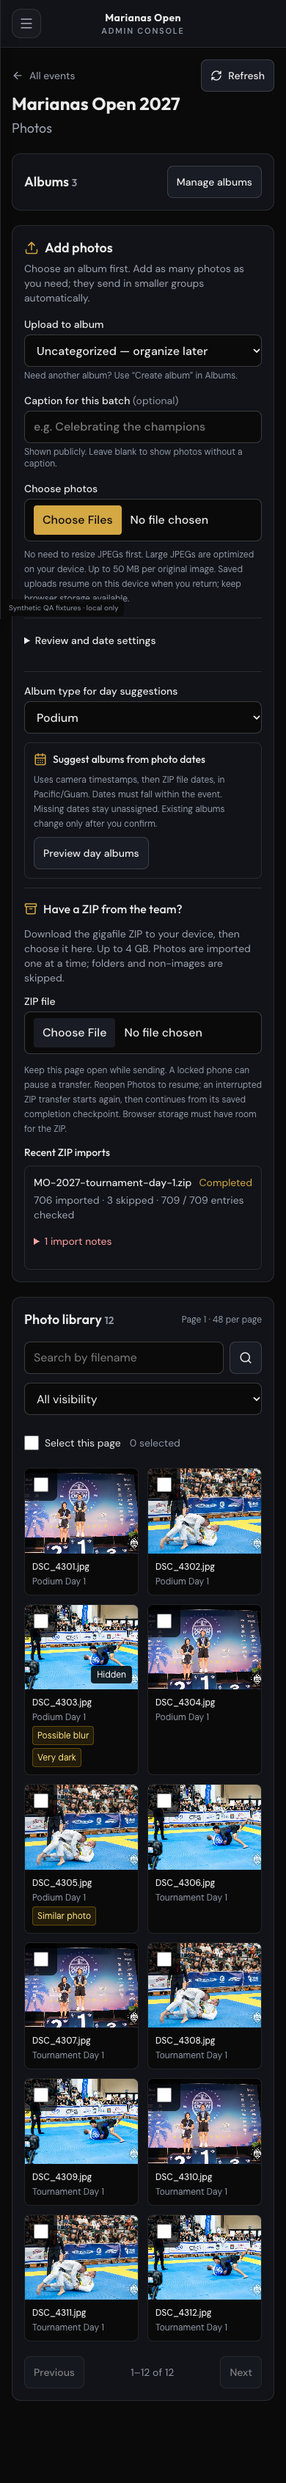
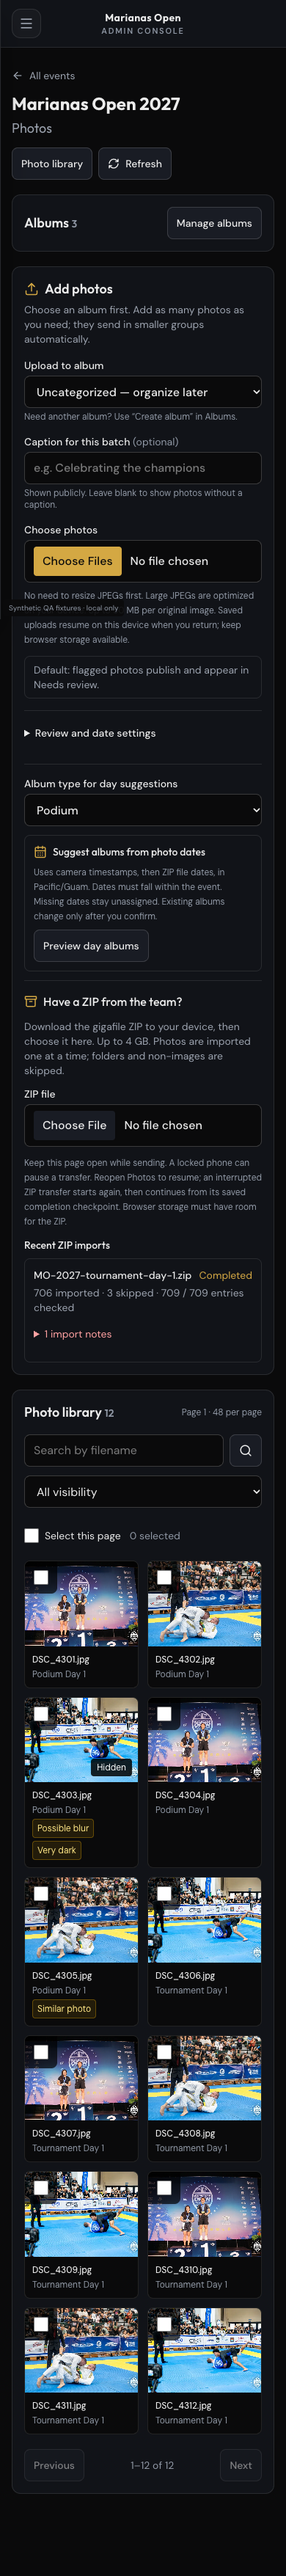
Keep upload recovery and album edits usable on phones
Allow upload details to minimize, preserve selected albums through renames, guard empty ZIP album types, and refresh responsive QA evidence.

Changed region(s): [[0.0308, 0.0, 0.9538, 0.9616], [0.6462, 0.5273, 0.7077, 0.5583], [0.8923, 0.1241, 0.9231, 0.1551]]

diff --git a/web/src/contexts/GalleryUploadContext.tsx b/web/src/contexts/GalleryUploadContext.tsx
@@ -514,6 +514,7 @@ function estimatedUploadSize(task: GalleryUploadTask, averageOptimizedRatio: num
 export function GalleryUploadStatusPanel() {
   const { tasks, activeCount, failedCount, completedCount, retryFailed, clearCompleted, concurrency, directStorageUnavailable, directStorageError, queueError } = useGalleryUploads();
   const [now, setNow] = useState(0);
+  const [minimized, setMinimized] = useState(false);
   const [fileFilter, setFileFilter] = useState<'all' | 'failed'>('all');
   const [filePage, setFilePage] = useState(0);
 
@@ -584,7 +585,7 @@ export function GalleryUploadStatusPanel() {
             {activeCount > 0 ? <Loader2 className="w-4 h-4 text-gold animate-spin" /> : <UploadCloud className="w-4 h-4 text-gold" />}
             Gallery uploads
           </div>
-          <div className="text-xs text-text-muted">{overall}%</div>
+          <div className="flex items-center gap-2 text-xs text-text-muted"><span>{overall}%</span><button type="button" aria-expanded={!minimized} aria-controls="gallery-upload-details" onClick={() => setMinimized(value => !value)} className="min-h-11 px-2 text-gold focus-visible:outline-2 focus-visible:outline-gold">{minimized ? 'Show details' : 'Minimize'}</button></div>
         </div>
         <div role="progressbar" aria-label="Overall upload progress" aria-valuemin={0} aria-valuemax={100} aria-valuenow={overall} className="mt-2 h-1.5 bg-white/5 overflow-hidden">
           <div className="h-full bg-gold transition-all" style={{ width: `${overall}%` }} />
@@ -596,7 +597,7 @@ export function GalleryUploadStatusPanel() {
           <span>{concurrency} at a time</span>
           {optimizedSavedBytes > 0 && <span>{formatBytes(optimizedSavedBytes)} saved</span>}
         </div>
-        <div className="mt-3 grid grid-cols-2 gap-2 text-[11px] text-text-muted sm:grid-cols-4">
+        {!minimized && <><div className="mt-3 grid grid-cols-2 gap-2 text-[11px] text-text-muted sm:grid-cols-4">
           <div className="border border-white/5 bg-white/[0.02] px-2 py-1.5">
             <div className="uppercase tracking-wide text-text-muted/80">Transferred</div>
             <div className="mt-0.5 text-text-primary">{formatBytes(uploadedBytes)} / {formatBytes(totalBytes)}</div>
@@ -621,7 +622,9 @@ export function GalleryUploadStatusPanel() {
             Direct storage upload failed{directStorageError ? `: ${directStorageError}` : ''}. Remaining files are uploading through the API, which is usually slower.
           </div>
         )}
+        </>}
       </div>
+      <div id="gallery-upload-details" hidden={minimized}>
       <div className="flex flex-wrap items-center justify-between gap-2 border-b border-white/5 px-3 py-2">
         <div role="group" aria-label="Filter upload files" className="flex flex-wrap gap-1">
           <button type="button" aria-pressed={fileFilter === 'all'} onClick={() => { setFileFilter('all'); setFilePage(0); }} className="min-h-11 px-2 text-xs text-text-primary aria-pressed:bg-gold/10 aria-pressed:text-gold focus-visible:outline-2 focus-visible:outline-gold">
@@ -680,13 +683,14 @@ export function GalleryUploadStatusPanel() {
       {(failedCount > 0 || completedCount > 0) && (
         <div className="flex items-center justify-end gap-2 p-3">
           {failedCount > 0 && (
-            <button onClick={() => { setFilePage(0); retryFailed(); }} className="px-3 py-1.5 text-xs text-gold bg-gold/10 hover:bg-gold/15">Retry failed</button>
+            <button onClick={() => { setFilePage(0); retryFailed(); }} className="min-h-11 touch-manipulation px-3 py-1.5 text-xs text-gold bg-gold/10 hover:bg-gold/15">Retry failed</button>
           )}
           {completedCount > 0 && (
-            <button onClick={() => { setFilePage(0); clearCompleted(); }} className="px-3 py-1.5 text-xs text-text-muted hover:text-text-primary">Clear complete</button>
+            <button onClick={() => { setFilePage(0); clearCompleted(); }} className="min-h-11 touch-manipulation px-3 py-1.5 text-xs text-text-muted hover:text-text-primary">Clear complete</button>
           )}
         </div>
       )}
+      </div>
     </div>
   );
 }

diff --git a/web/src/components/admin/photos/ZipIntake.tsx b/web/src/components/admin/photos/ZipIntake.tsx
@@ -18,7 +18,7 @@ export default function ZipIntake({ eventId, options, onImported, imports }: Pro
   const controller = useRef<AbortController | null>(null);
   const running = useRef(false);
   const onImportedRef = useRef(onImported);
-  onImportedRef.current = onImported;
+  useEffect(() => { onImportedRef.current = onImported; }, [onImported]);
 
   const send = useCallback(async (record: SavedZip) => {
     if (running.current) return;
@@ -70,7 +70,8 @@ export default function ZipIntake({ eventId, options, onImported, imports }: Pro
   return <div className="space-y-3 border-t border-white/10 pt-4">
     <h3 className="flex items-center gap-2 font-medium"><Archive size={18} className="text-gold" />Have a ZIP from the team?</h3>
     <p className="text-sm text-text-secondary">Download the gigafile ZIP to your device, then choose it here. Up to 4 GB. Photos are imported one at a time; folders and non-images are skipped.</p>
-    <label className="block text-sm font-medium">ZIP file<input className={`${photoInput} mt-1 file:mr-3 file:rounded file:border-0 file:bg-surface-light file:px-3 file:py-2 file:text-text-primary`} type="file" accept=".zip,application/zip" disabled={!key || !ready || busy || !!saved} onChange={event => { const file = event.target.files?.[0]; if (file) void choose(file); event.target.value = ''; }} /></label>
+    <label className="block text-sm font-medium">ZIP file<input className={`${photoInput} mt-1 file:mr-3 file:rounded file:border-0 file:bg-surface-light file:px-3 file:py-2 file:text-text-primary`} type="file" accept=".zip,application/zip" disabled={!key || !ready || busy || !!saved || !options.album_type.trim()} onChange={event => { const file = event.target.files?.[0]; if (file) void choose(file); event.target.value = ''; }} /></label>
+    {!options.album_type.trim() && <p className="text-sm text-amber-200">Enter a custom album type above before choosing a ZIP.</p>}
     <p className="text-xs leading-5 text-text-muted">Keep this page open while sending. A locked phone can pause a transfer. Reopen Photos to resume; an interrupted ZIP transfer starts again, then continues from its saved completion checkpoint. Browser storage must have room for the ZIP.</p>
     {saved && <div className="rounded-lg border border-white/15 p-3">
       <p className="break-all text-sm font-medium">{saved.file.name}</p>

diff --git a/web/src/components/admin/photos/PhotoUpload.tsx b/web/src/components/admin/photos/PhotoUpload.tsx
@@ -20,7 +20,7 @@ interface Props {
 
 export default function PhotoUpload({ event, albums, settings, selectedAlbum, imports, busy, refresh, mutate }: Props) {
   const { startUpload } = useGalleryUploads();
-  const [uploadAlbum, setUploadAlbum] = useState<string | null>(null);
+  const [uploadAlbumId, setUploadAlbumId] = useState<number | null | undefined>(undefined);
   const [albumType, setAlbumType] = useState('Podium');
   const [customType, setCustomType] = useState('');
   const [caption, setCaption] = useState('');
@@ -28,7 +28,7 @@ export default function PhotoUpload({ event, albums, settings, selectedAlbum, im
   const [notice, setNotice] = useState('');
   const [error, setError] = useState('');
   const [timezone, setTimezone] = useState(settings.timezone);
-  const category = uploadAlbum ?? (selectedAlbum === '__uncategorized__' ? '' : selectedAlbum);
+  const category = uploadAlbumId === undefined ? (selectedAlbum === '__uncategorized__' ? '' : selectedAlbum) : albums.find(album => album.id === uploadAlbumId)?.name || '';
   const resolvedType = albumType === '__custom__' ? customType.trim() : albumType;
 
   async function addImages(files: File[]) {
@@ -49,7 +49,7 @@ export default function PhotoUpload({ event, albums, settings, selectedAlbum, im
     <div className="flex items-center gap-2"><Upload className="h-5 w-5 text-gold" /><h2 id="add-event-photos" className="font-heading text-lg font-semibold">Add photos</h2></div>
     <p className="mt-1 text-sm text-text-secondary">Choose an album first. Add as many photos as you need; they send in smaller groups automatically.</p>
     <div className="mt-4 grid gap-4 sm:grid-cols-2">
-      <label className="block text-sm font-medium">Upload to album<select className={`${photoInput} mt-1`} value={category} onChange={event => setUploadAlbum(event.target.value)}>
+      <label className="block text-sm font-medium">Upload to album<select className={`${photoInput} mt-1`} value={category} onChange={event => setUploadAlbumId(albums.find(album => album.name === event.target.value)?.id ?? null)}>
         <option value="">Uncategorized — organize later</option>
         {albums.map(album => <option key={album.id} value={album.name}>{album.name}</option>)}
         {category && !albums.some(album => album.name === category) && <option value={category}>{category}</option>}

diff --git a/web/qa/photos/main.tsx b/web/qa/photos/main.tsx
@@ -3,6 +3,7 @@ import { MemoryRouter, Route, Routes } from 'react-router-dom';
 import '../../src/index.css';
 import PhotosAdmin from '../../src/pages/admin/PhotosAdmin';
 import AdminLayout from '../../src/layouts/AdminLayout';
+import { AuthProvider } from '../../src/contexts/AuthContext';
 import { api, type Event } from '../../src/services/api';
 import { photoIntake, type DayProposal, type IntakePhoto, type PhotoAlbum, type PhotoSettings } from '../../src/services/photoIntake';
 
@@ -49,4 +50,4 @@ photoIntake.bulkDelete = async (_id, ids) => { photos = photos.filter(photo => !
 photoIntake.proposals = async (_id, type) => ({ proposals: [{ category: `${type} Day 1`, image_ids: photos.map(photo => photo.id), date: '2027-10-23' }], unassigned_count: 3 });
 photoIntake.applyProposals = async (_id, _type, proposals: DayProposal[]) => { proposals.forEach(proposal => { photos = photos.map(photo => proposal.image_ids.includes(photo.id) ? { ...photo, category: proposal.category } : photo); }); return { updated: proposals.reduce((total, proposal) => total + proposal.image_ids.length, 0) }; };
 // No network upload endpoint is mocked: file-transfer evidence is in queue/API tests.
-createRoot(document.getElementById('root')!).render(<MemoryRouter initialEntries={['/admin/photos/7']}><Routes><Route path="/admin" element={<AdminLayout />}><Route path="photos" element={<PhotosAdmin />} /><Route path="photos/:eventId" element={<PhotosAdmin />} /></Route></Routes><p className="pointer-events-none fixed bottom-1 left-1 z-[100] rounded bg-navy-900/90 px-2 py-1 text-[10px] text-text-muted">Synthetic QA fixtures · local only</p></MemoryRouter>);
+createRoot(document.getElementById('root')!).render(<AuthProvider value={{ isClerkEnabled: true, isSignedIn: true, isLoading: false, userId: 'd4-synthetic-staff' }}><MemoryRouter initialEntries={['/admin/photos/7']}><Routes><Route path="/admin" element={<AdminLayout />}><Route path="photos" element={<PhotosAdmin />} /><Route path="photos/:eventId" element={<PhotosAdmin />} /></Route></Routes><p className="pointer-events-none fixed bottom-1 left-1 z-[100] rounded bg-navy-900/90 px-2 py-1 text-[10px] text-text-muted">Synthetic QA fixtures · local only</p></MemoryRouter></AuthProvider>);

diff --git a/web/src/utils/galleryUploadQueue.context.test.tsx b/web/src/utils/galleryUploadQueue.context.test.tsx
@@ -169,6 +169,11 @@ describe('GalleryUploadProvider persisted user journeys (jsdom, mock API/storage
     expect(screen.getAllByRole('listitem')).toHaveLength(8);
     expect(document.querySelectorAll('img').length).toBeLessThanOrEqual(8);
     expect(screen.getByText('1–8 of 24')).toBeTruthy();
+    fireEvent.click(screen.getByRole('button', { name: 'Minimize' }));
+    expect(screen.queryByRole('list', { name: 'Upload files' })).toBeNull();
+    expect(screen.getByRole('progressbar', { name: 'Overall upload progress' })).toBeTruthy();
+    fireEvent.click(screen.getByRole('button', { name: 'Show details' }));
+    expect(screen.getAllByRole('listitem')).toHaveLength(8);
     expect(screen.getByRole('button', { name: 'All files (24)' }).getAttribute('aria-pressed')).toBe('true');
     fireEvent.click(screen.getByRole('button', { name: 'Next files' }));
     expect(screen.getByText('9–16 of 24')).toBeTruthy();

diff --git a/web/src/pages/admin/PhotosAdmin.tsx b/web/src/pages/admin/PhotosAdmin.tsx
@@ -78,7 +78,8 @@ function EventPhotos({ event }: { event: Event }) {
     } finally { if (generation.current === currentGeneration) setLoading(false); }
   }, [event.id, page, category, q, view, filterKey]);
 
-  useEffect(() => { void load(); return () => { generation.current++; }; }, [load, taskVersion]);
+  const invalidateLoad = useCallback(() => { generation.current++; }, []);
+  useEffect(() => { void load(); return invalidateLoad; }, [load, taskVersion, invalidateLoad]);
   const processing = imports.some(item => ['pending', 'queued', 'processing', 'importing'].includes(item.status)) || photos.some(photo => ['pending', 'uploaded', 'processing'].includes(photo.status));
   useEffect(() => {
     if (!processing) return;
